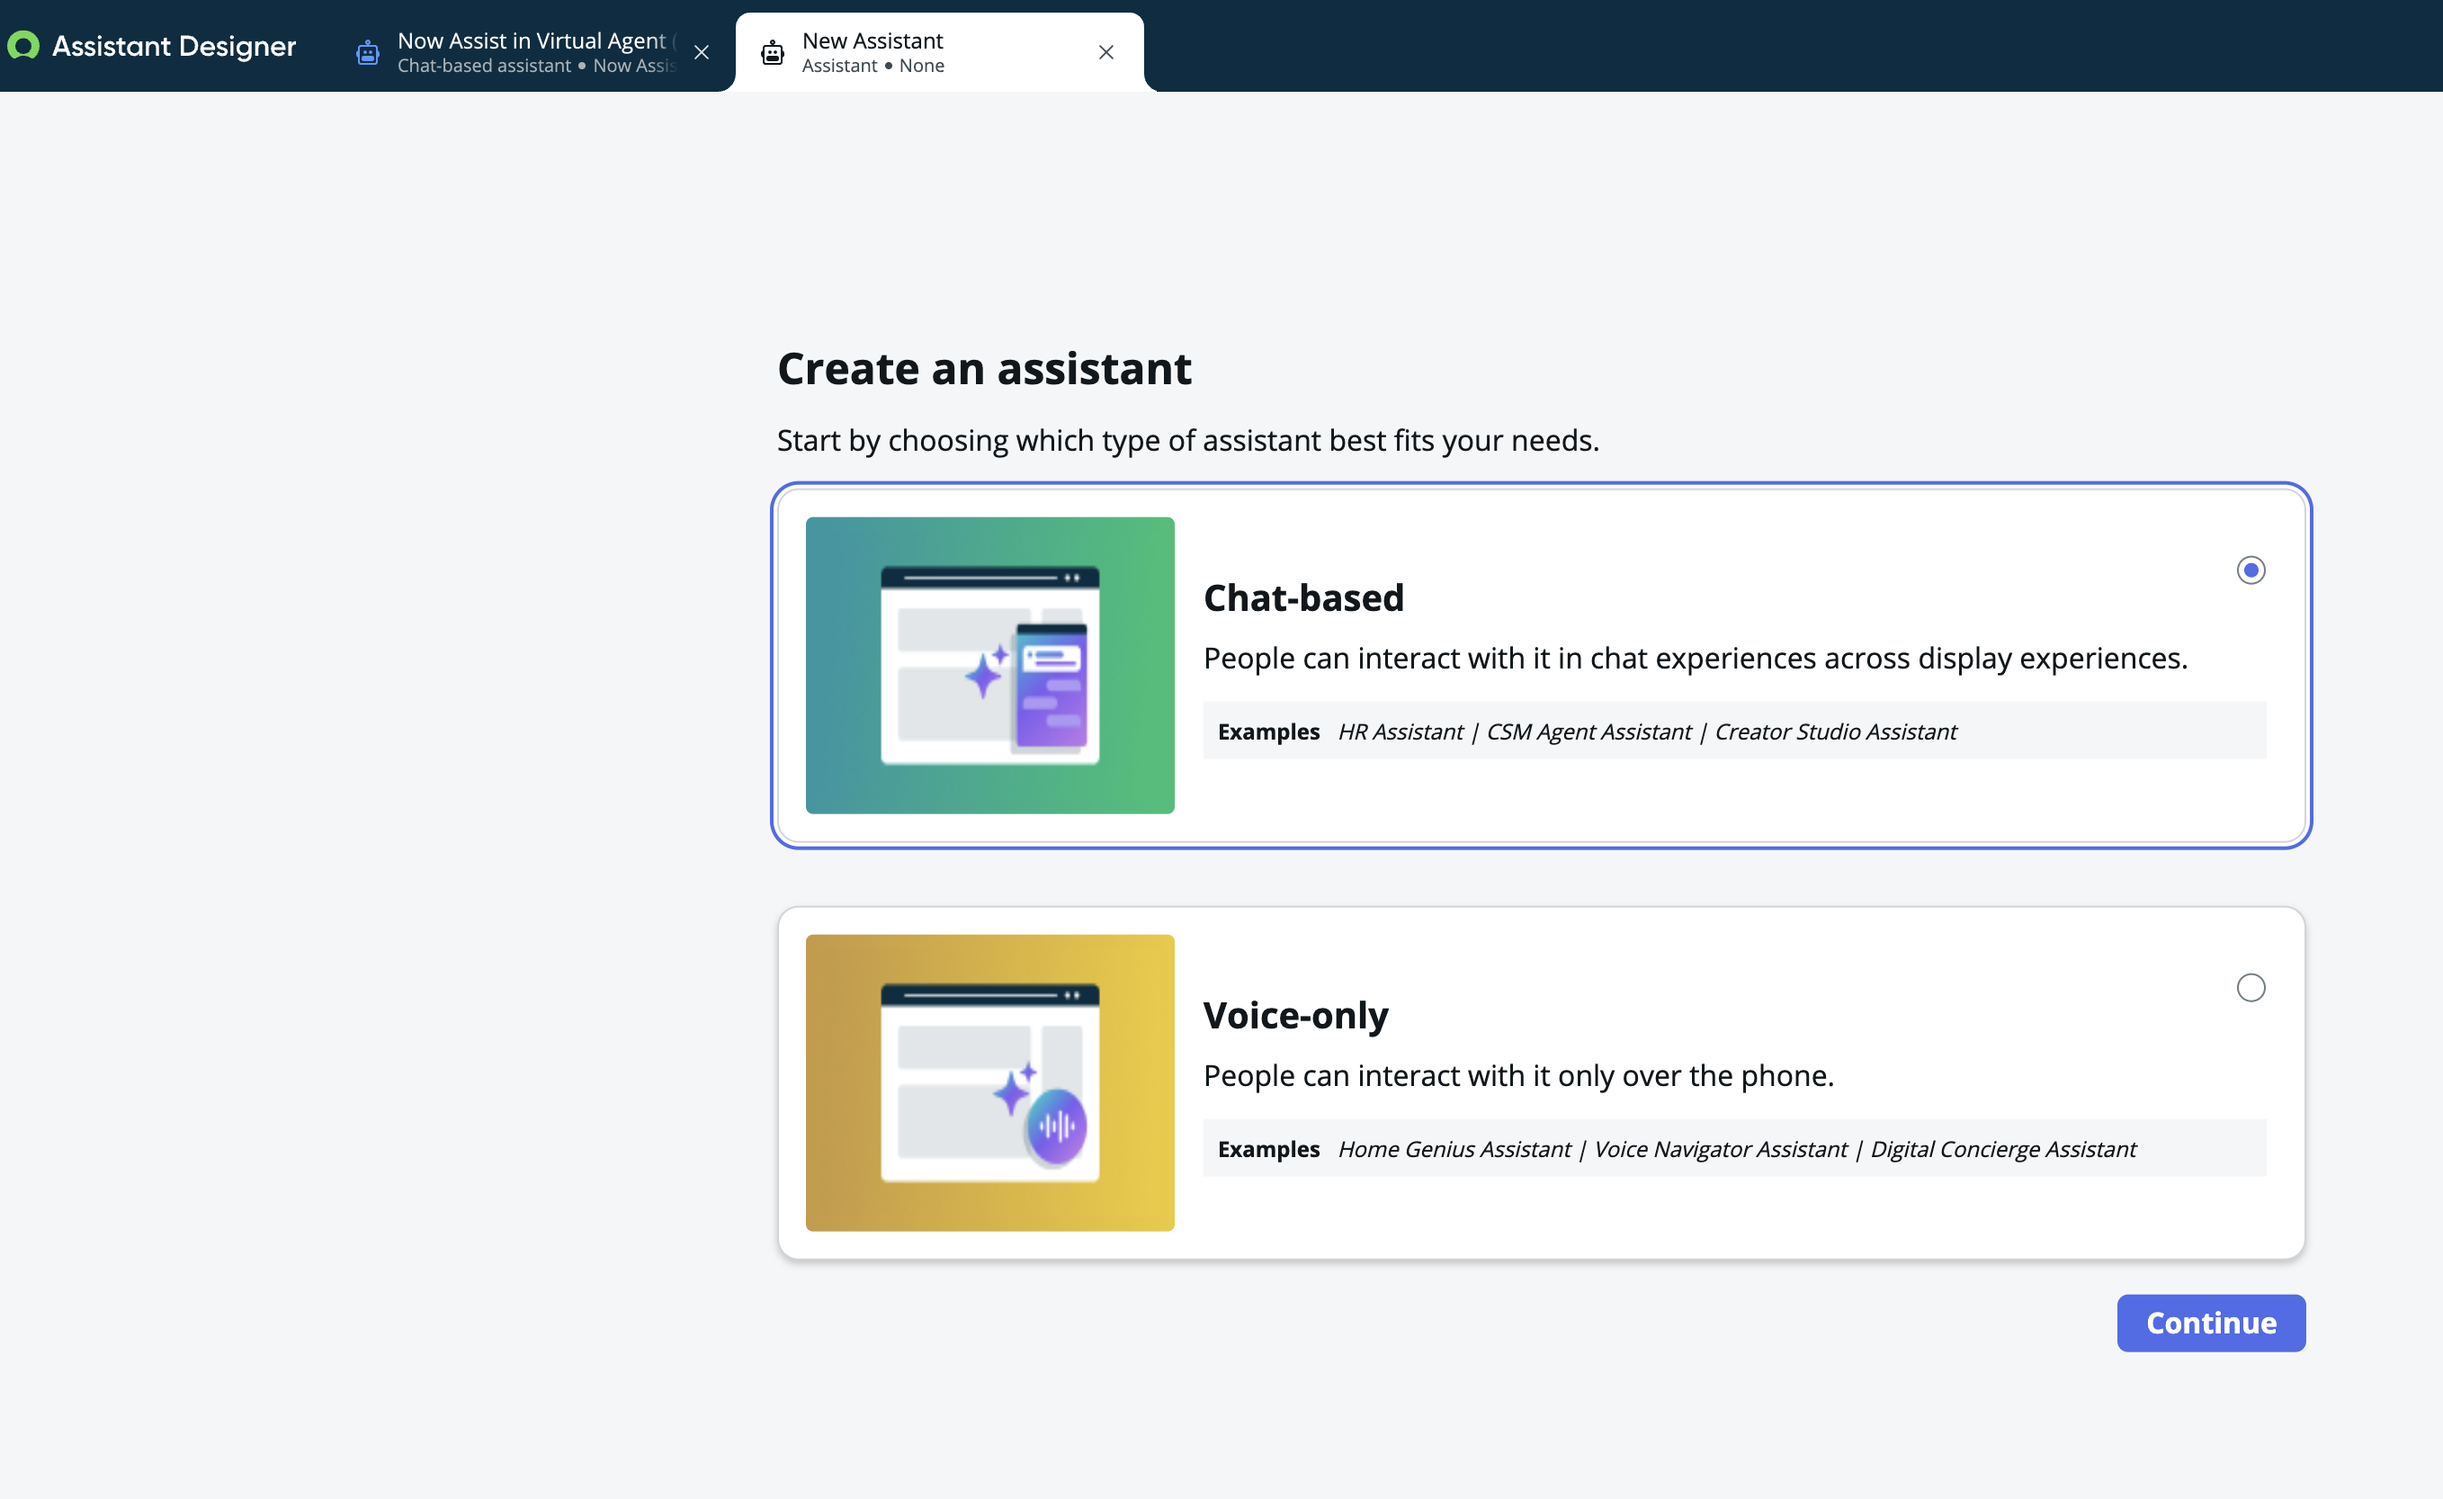
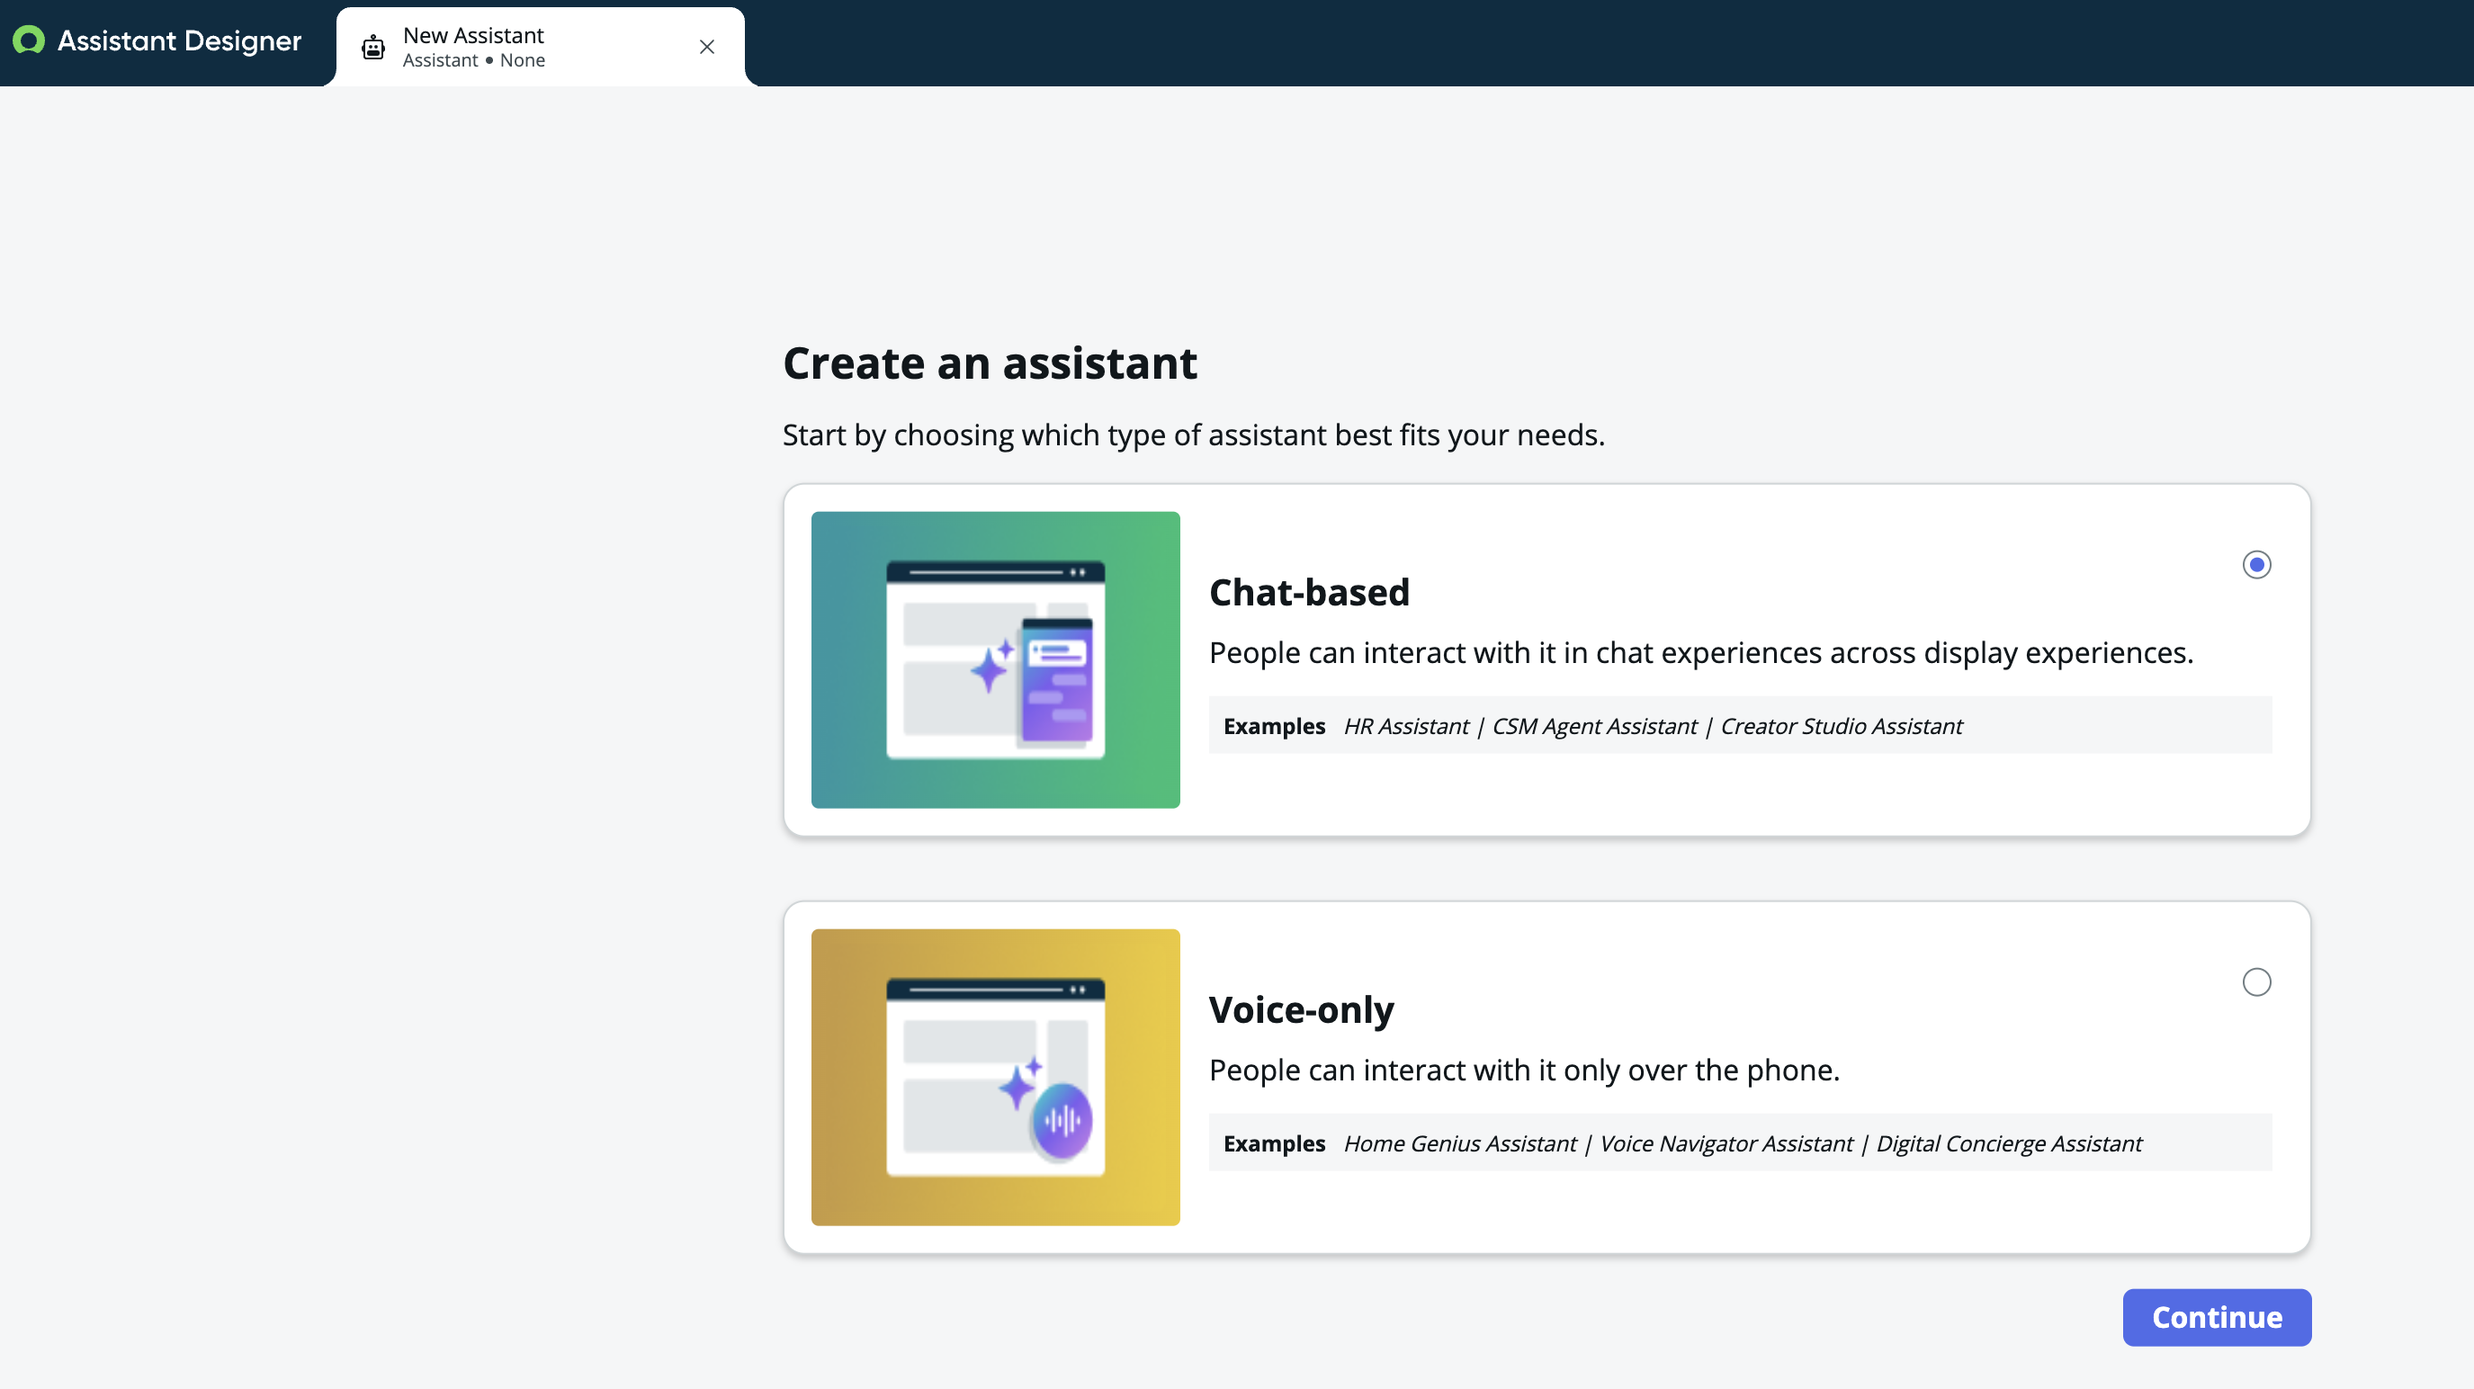
commit-assistant-changes

Changed region(s): [[0.3093, 0.2176, 0.9588, 0.9948], [0.0, 0.0, 0.4948, 0.0622], [0.8969, 0.342, 0.9588, 0.5596]]

diff --git a/docs/01-now-assist-virtual-agent.md b/docs/01-now-assist-virtual-agent.md
@@ -82,9 +82,9 @@ Assistant Designer — Setup Wizard Order
 
 We will create a new Assistant for this lab and not reuse any of the existing Virtual Agent Assistants.
 
-Navigate to **Conversational Interfaces** → **Assistant Designer**
+To create a new assistant, navigate to **Conversational Interfaces** → **Assistant Designer**
 
-![Assistant Designer — Create Chat-Based Assistant](<../.gitbook/assets/nava-create-chat-based-assistant (1).png>)
+![Assistant Designer — Create Chat-Based Assistant](<../screenshots/nava-create-chat-based-assistant.png>)
 
 > The Assistant Designer shows the **Assistants** tab. The default assistant is **Now Assist for Virtual Agent**. Click **Edit** to open the setup wizard.
 
